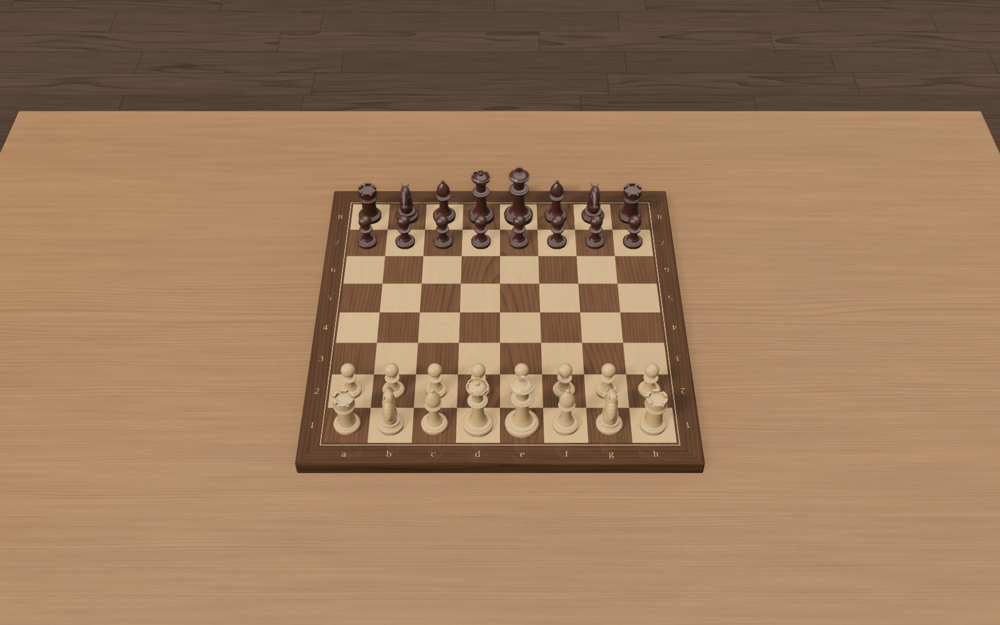
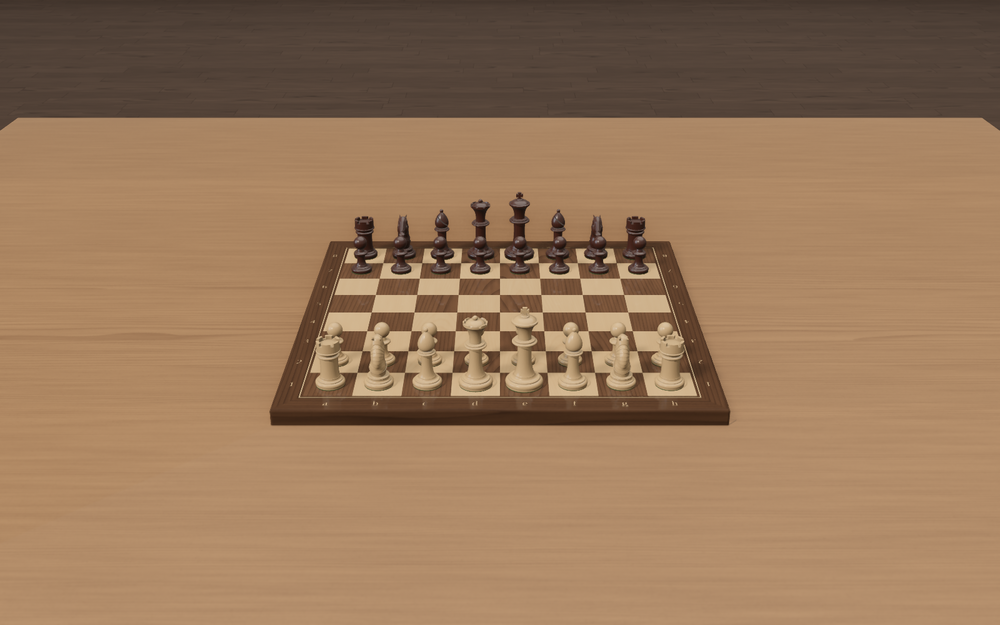
Preferences: the tables are 2 m square; when the floor shows; new picture (cjus/chessgui#890)

Changed region(s): [[0.248, 0.2736, 0.744, 0.76], [0.0, 0.152, 1.0, 0.2432]]

diff --git a/book/src/preferences.md b/book/src/preferences.md
@@ -92,9 +92,11 @@ Two columns: **Board**, and **Chess clock** (3D board only).
   panel, its edge undercut so it looks thin, on splayed legs), **Library mahogany** (a moulded
   ogee edge) and **Café ash** (pale ash with a rounded bullnose edge and big rounded corners).
   The table sits under whichever board you choose.
-- **Floor** (3D board): the wood floor under the table, seen past its edge: **None** (to
-  start), **Oak planks**, **Smoked oak**, **Herringbone** or **Walnut planks**. It runs out to
-  the horizon, a little darker far away, as a room's floor does.
+- **Floor** (3D board): the wood floor under the table: **None** (to start), **Oak
+  planks**, **Smoked oak**, **Herringbone** or **Walnut planks**. It runs out to the
+  horizon, a little darker far away, as a room's floor does. The tables are large and
+  square, so from a player's seat the board is surrounded by table: the floor shows past
+  the table's edge when you turn the camera low, or in a tall window.
 
 ![The board on the Farmhouse oak table, smoked oak floor beyond](images/table-farmhouse.png)
 
